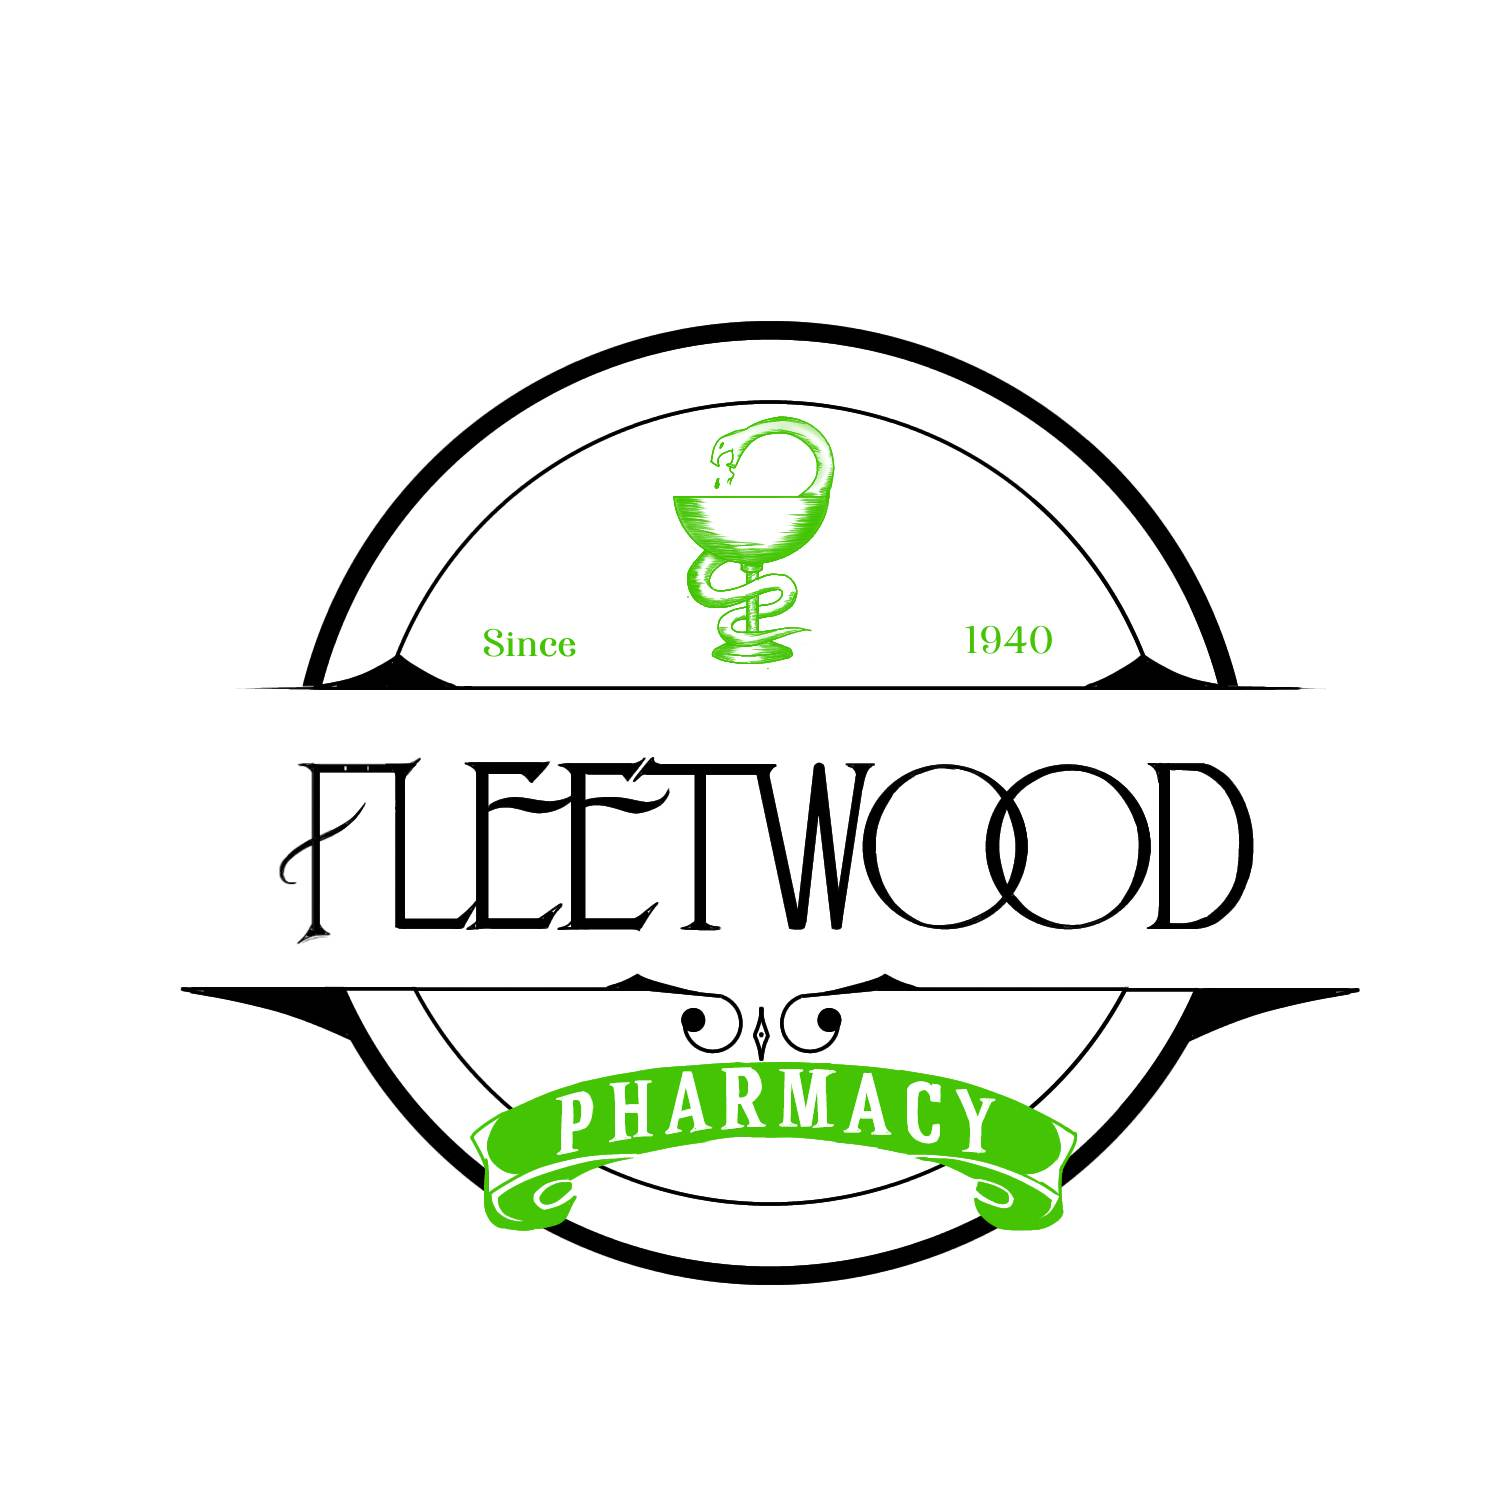
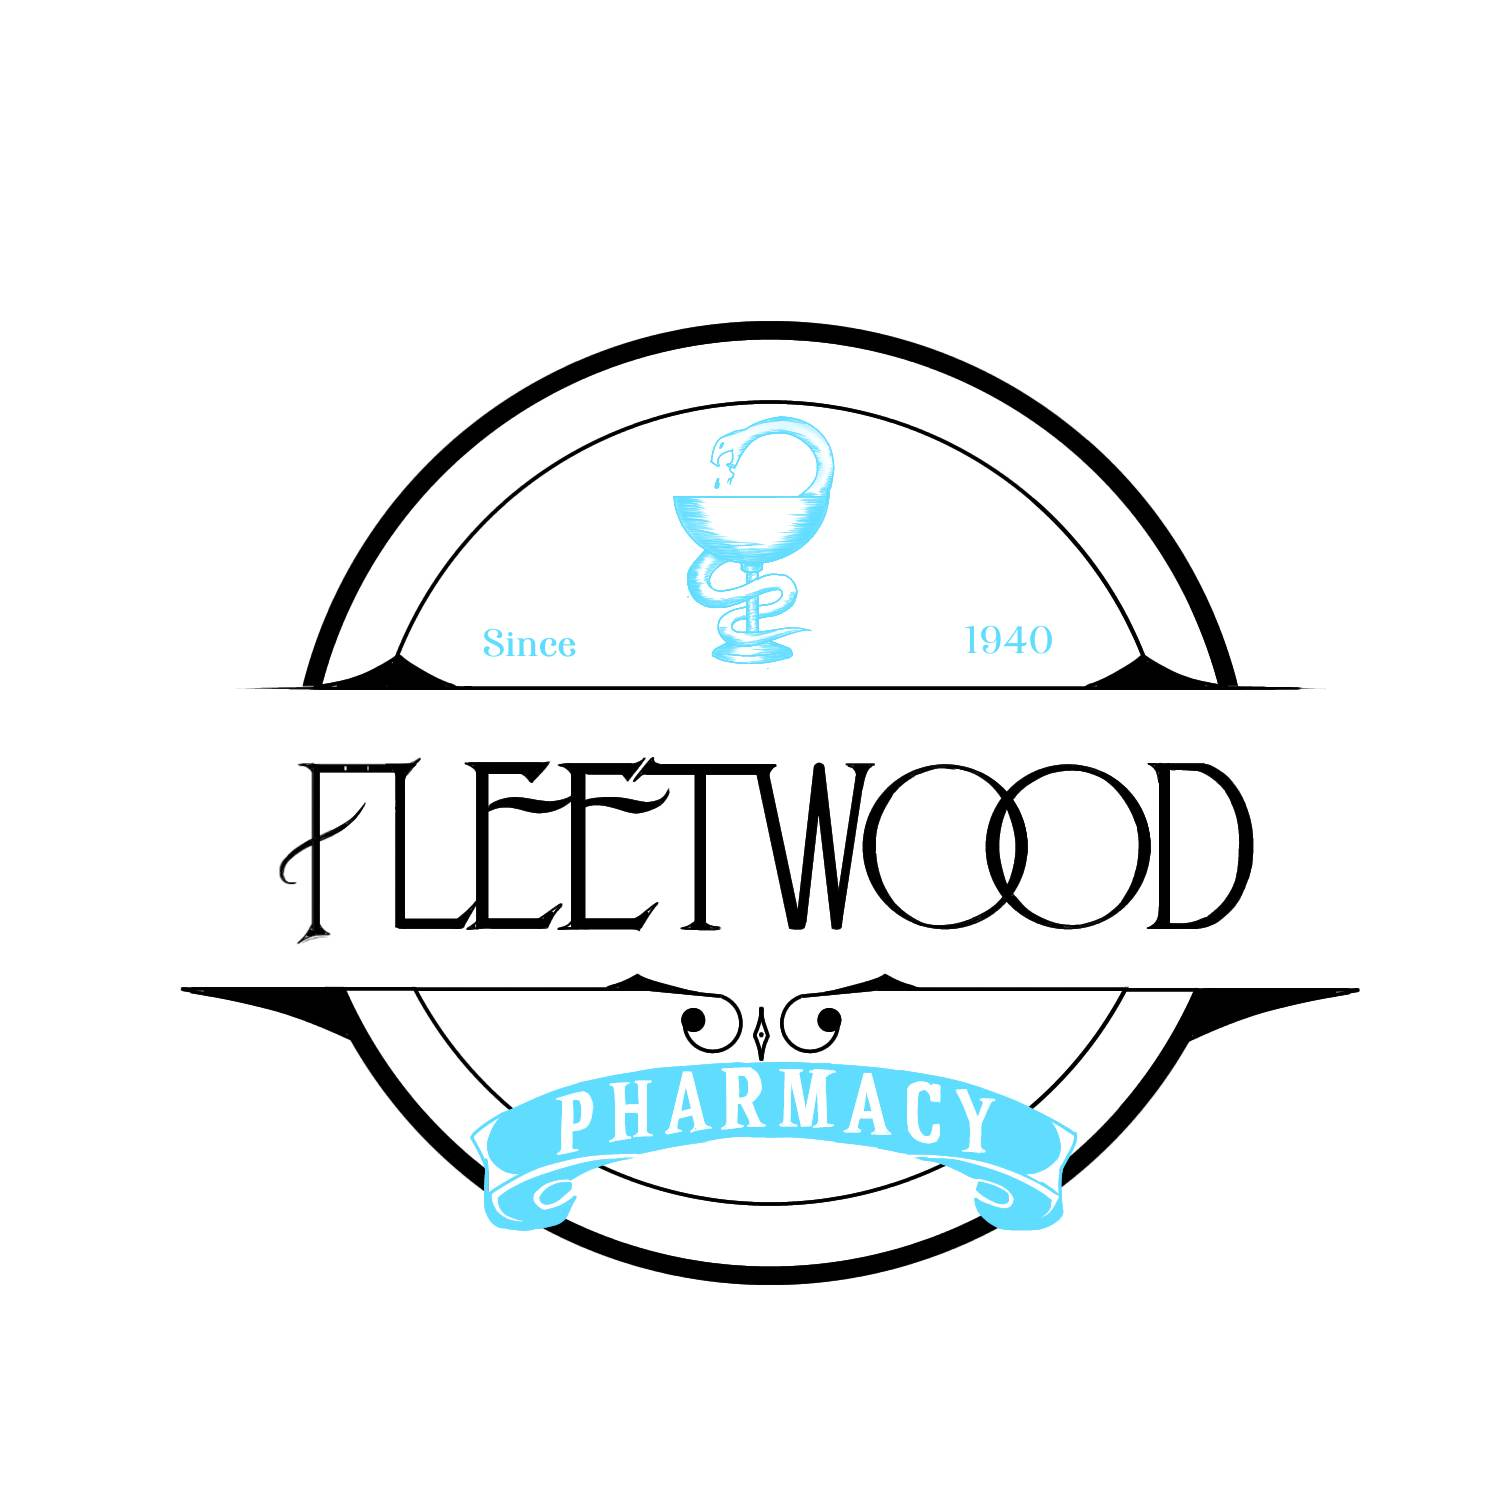
fleetwood.html

diff --git a/index.html b/index.html
@@ -1,7 +1,7 @@
 <!DOCTYPE html>
 <html lang="en">
   <head>
-    <title>Fleet Wood Pharmacy</title>
+    <title>Fleet Wood Pharmacy - Zamboanga City</title>
     
     <meta charset="UTF-8">
     <meta name="viewport" content="width=device-width, initial-scale=1.0">
@@ -12,7 +12,7 @@
     
   <style>
        body, html {
-        background-color: #F1E7ED;
+        background-color: #EDF8FC;
         height: 100%;
         width: 100%;
         font-size: 20px;
@@ -29,16 +29,11 @@
       a {
         font-size: 16px
       }
-    
-      em {
-        color: darkgreen;
-        font-style: normal;
-      }
       
       h4 {
         color: darkgray;
         font-weight: bold;
-        font-size: 15px
+        font-size: 15px;
       }
       
       p.add-p {
@@ -61,7 +56,7 @@
         font-weight: bold;
       }
       
-      h5 {
+      h6 {
         color: gray;
         font-size: 12px;
       }
@@ -72,6 +67,11 @@
         margin-right: auto;
         width:100%;
       }
+      
+      .hiring {
+        font-style: italic;
+        font-size: 19px;
+      }
     </style>
   </head>
   
@@ -79,19 +79,19 @@
     
   <!--Links (sit on top)-->
   <div class="w3-top">
-    <div class="w3-row w3-padding w3-black">
+    <div class="w3-row w3-padding w3-blue">
       <div class="w3-col s3">
-        <a href="#" class="w3-button w3-block w3-black">Home</a>
+        <a href="#" class="w3-button w3-block w3-blue">Home</a>
       </div>
 
       <div class="w3-col s3">
-        <a href="#about" class="w3-button w3-block w3-black">ABOUT</a>
+        <a href="#about" class="w3-button w3-block w3-blue">ABOUT</a>
       </div>
       <div class="w3-col s3">
-        <a href="#products" class="w3-button w3-block w3-black">PRODUCTS</a>
+        <a href="#products" class="w3-button w3-block w3-blue">PRODUCTS</a>
       </div>
       <div class="w3-col s3">
-        <a href="#where" class="w3-button w3-block w3-black">WHERE</a>
+        <a href="#where" class="w3-button w3-block w3-blue">WHERE</a>
       </div>
     </div>
   </div>
@@ -104,63 +104,55 @@
   <!--About Container-->
   <div class="w3-container" id="about">
   <div class="w3-content" style="max-width:900px">
-    <h1 class="w3-center w3-padding-10"><span class="w3-tag w3-wide">Fleet Wood Pharmacy</span></h1><br>
+    <h1 class="w3-center w3-padding-10"><span class="w3-tag w3-wide w3-blue">Fleet Wood Pharmacy</span></h1><br>
     <h2>"Welcome To Fleet Wood Pharmacy - A New Experience In Health, Beauty And Well-Being."</h2>
-    <p>With over 350 branches in strategic locations all over the country, Fleet Wood Pharmacy is recognized as one of the Philippines’ top pharmaceutical retailers, providing customers with easy access to quality health and beauty products.</p>
-    <p>Fleet Wood Pharmacy continues to expand its services beyond conventional limits – serving customers at the comfort of their own homes with <em>FleetingExpress Delivery</em>, fulfilling health and beauty needs across the country with the <em>Fleet Wood Pharmacy Online Store</em>’s nationwide delivery, and providing round-the-clock service with 24-Hour stores.</p>
-    <p>With a strong focus on bringing value to customers, Fleet Wood Pharmacy has launched <em>Fleet Wood Pharmacy Generics</em>, ensuring high-quality prescription and over-the-counter medicines are made widely available for everyday affordable prices. The Guardian line of personal care products bring gentle, quality care for every member of the family at consistently low prices as well.</p>
+    <p>Established in 1940 in Zamboanga City, Fleet Wood Pharmacy is one of the Philippines’ top pharmaceutical retailers with over 257 branches in strategic locations all over the country, providing easy access to quality and affordable medicines for its numerous customers.</p>
+    <p>At the core of its corporate philosophy is KSM or Kay Sarap Magmahal, the customer-centered culture that is uniquely Fleet Wood Pharmacy’s.</p>
+    <p>With the customer being the centerpiece of its corporate plans, Fleet Wood Pharmacy has streamlined its branch operation by installing advanced POS system in all branches thereby providing not only fast and efficient computerized service but also accurate accounting and inventory monitoring. With its home delivery facility – FleetExpress Delivery, buying medicines and grocery items is just a phone call away and delivered right to customers’ doorsteps.</p>
+    <p>Mindful of its corporate responsibility to the community, Fleet Wood Pharmacy has established the Fleet Wood Pharmacy Foundation, which undertakes yearly various medical missions/free clinics to different barangays in the Philippine Islands, in cooperation with local medical practitioners and its partners in the pharmaceutical industry. The foundation has also provided scholarship grants to qualified children of its regular employees who wish to study B.S in Pharmacy in any college or university of their choice.</p>
+    <p>The establishment of this website further enhances Rose Pharmacy’s customer service thru on-line product inquiry and ordering and other on-line services.</p>
     <p><strong>Main Branch Address:</strong> Don Alfaro St., Tetuan, Z.C</p><br>
     
   <!--Products Container-->
   <div class="w3-container" id="products">
-    <div class="w3-content" style="max-width:900px">
 
- 
-      <h2 class="w3-center w3-padding-48"><span class="w3-tag w3-wide">Main Products</span></h2>
-      <div class="w3-container  w3-padding-48 w3-card">
+  <div class="w3-content" style="max-width:700px">
+    <h2 class="w3-center w3-padding-48"><span class="w3-tag w3-wide w3-blue">Main Products</span></h2>
 
-      <p class="w3-text-grey">Amoxicillin — Php 7.50 (500mg)</p>
-    
-      <p class="w3-text-grey">Ascorbic Acid — Php 2.75 (500mg)</p>
-      
-      <p class="w3-text-grey">Glimepiride — Php 11.75 (2mg)</p>
-      
-      <p class="w3-text-grey">Paracetamol — Php 4.25 (500mg)</p>
-      
-      <p class="w3-text-grey">Supracid — Php 2.00 (650mg)</p>
-      
-      <p class="w3-text-grey">Clopidogrel — Php 14.75 (75mg)</p>
-      </div>
-    </div>
+    <div class="w3-row w3-card w3-padding">
+    <div class="w3-center w3-col s6 tablink w3-text-gray"><b>Per Capsules/Tablets</b></div>
   </div>
-  <br>  
-  <br>
-  <br> 
-  <br>
+    
+    <div id="Per Capsules/Tablets" class="w3-container products w3-padding-48 w3-card">
+      <p class="w3-text-grey">• Amoxicillin — Php 7.50 (500mg) [Prescription Required]</p>
+    
+      <p class="w3-text-grey">• Ascorbic Acid (Viatamin C) — Php 2.75 (500mg)</p>
+      
+      <p class="w3-text-grey">• Glimepiride — Php 11.75 (2mg) [Prescription Required]</p>
+      
+      <p class="w3-text-grey">• Paracetamol — Php 4.25 (500mg)</p>
+      
+      <p class="w3-text-grey">• Supracid — Php 2.00 (650mg)</p>
+      
+      <p class="w3-text-grey">• Clopidogrel — Php 14.75 (75mg) [Prescription Required]</p>
+      </div>
+  </div>
+  <hr>
   <!--Contact/ Area Container-->
   <div class="w3-container" id="where" style="padding-bottom:32px;">
     <div class="w3-content" style="max-width:900px">
-      <h4 class="w3-center w3-padding-60"><span class="w3-tag w3-wide">Contact Us</span></h4>
+      <h4 class="w3-center w3-padding-60"><span class="w3-tag w3-wide w3-blue">Contact Us</span></h4>
+      <p>Tel. No.: 8123-4567</p>
       <p>Facebook:<a href="https://www.facebook.com/gabriella.tschaunder">https://www.facebook.com/gabriella.tschaunder</a></p>
-      <p class="email">Email:<a href="mailto:lilpsychos177@gmail.com">lilpsychos177@gmail.com</a></p>
-        <br>
-        <br>
-      <p><strong>You can also send us a message using this form:</strong></p>
-      <form action="/action_page.php" target="_blank">
-        <p><input class="w3-input w3-padding-10 w3-border" type="text" placeholder="Name" required name="Name"></p>
-        <p><input class="w3-input w3-padding-10 w3-border"
-        type="text" placeholder="Date Of Birth" required name="Date"</p>
-        <p><input class="w3-input w3-padding-10 w3-border"
-        type="text" placeholder="Email" require name="email"</p>
-        <p><input class="w3-input w3-padding-16 w3-border"
-        type="text" placeholder="Message" requured name="message"</p>
-        <p><button class="w3-button w3-black" type="submit">SUBMIT</button></p>
-      </form>  
-      </div>  
-    </div>   
-  <!--End of Page Content-->
+      <p class="email">Email Address:<a href="mailto:lilpsychos177@gmail.com">lilpsychos177@gmail.com</a></p>
+    </div>
+  </div>  
   <hr>
-  <h5>Important Info:</h5>
+  <h5><span class="w3-tag w3-padding w3-blue">Fleet Wood Pharmacy is now hiring! Click <a class="hiring" href="aboutus.html">here</a> to find out more.</span></h5>
+  <!--End of Page Content-->
+  
+  <hr>
+  <h6>Important Info:</h6>
     <p class="add-p">Pharmacy is the science and practice of discovering, producing, preparing, dispensing, reviewing and monitoring medications, aiming to ensure the safe, effective, and affordable use of medicines. It is a miscellaneous science as it links health sciences with pharmaceutical sciences and natural sciences. The professional practice is becoming more clinically oriented as most of the drugs are now manufactured by pharmaceutical industries. Based on the setting, pharmacy practice is either classified as community or institutional pharmacy. Providing direct patient care in the community of institutional pharmacies is considered clinical pharmacy.</p>
     <p class="sec-p">Pharmacy coincides well with the history of medicine, but it's important that there is a distinction between the two topics. Pharmaceuticals is one of the most-researched fields in the academic industry, but the history surrounding that particular topic is sparse compared to the impact its made world-wide. Before the advent of pharmacists, there existed apothecaries that worked alongside priests and physicians in regard to patient care.</p>
   </body>

diff --git a/aboutus.html b/aboutus.html
@@ -2,20 +2,145 @@
 <html>
 
 <head>
+  <title>Fleet Wood Farmacy's Application Form</title>
+  
   <meta charset="UTF-8">
-  <meta name="viewport" content="width=device-width, initial-scale=1">
-  <title>More Information About Fleet Wood Pharmacy <img src="/images/Picsart_23-04-01_15-35-33-655.jpg" alt="Fleet Wood Pharmcy's Logo"></title>
+  <meta name="viewport" content="width=device-width, initial-scale=1.0">
+  
+  <link rel="stylesheet" href="https://www.w3schools.com/w3css/4/w3.css">
+  <link rel="stylesheet" href="https://fonts.googleapis.com/css?family=Inconsolata">
+  <link rel="stylesheet" href="https://fonts.googleapis.com/css?family=Sofia">
   
   <style>
-    img {
-      width: 50px;
-      border-radius: 25px;
+    body, html {
+      background-color: #EDF8FC;
+        height: 100%;
+        width: 100%;
+        font-size: 20px;
+        font-family: "Inconsolata", sans-serif;
+    }
+    
+    h1 {
+      font-weight: bold;
+      font-family: "Inconsolata", sans-serif;
+      font-size: 50px;
+    }
+    
+    h2 {
+      font-weight: bolder;
+      font-size: 45px;
+    }
+    
+    h3 {
+      font-weight: bold;
+      font-size: 35px;
+    }
+    
+    h4 {
+      font-weight: bold;
+    }
+    
+    .address {
+      color: grey;
+    }
+    
+    .ov {
+      color: darkblue;
+      font-size: 25px;
     }
   </style>
 </head>
 
 <body>
+    <!--Links (sit on top)-->
+  <div class="w3-top">
+    <div class="w3-row w3-padding w3-blue">
+      <div class="w3-col s3">
+        <a href="#" class="w3-button w3-block w3-blue">Home</a>
+      </div>
+
+      <div class="w3-col s3">
+        <a href="#about" class="w3-button w3-block w3-blue">ABOUT</a>
+      </div>
+      <div class="w3-col s3">
+        <a href="#overview" class="w3-button w3-block w3-blue">OVERVIEW</a>
+      </div>
+      <div class="w3-col s3">
+        <a href="#form" class="w3-button w3-block w3-blue">FORM</a>
+      </div>
+    </div>
+  </div>
+<!--Home Area-->
+  <div class="w3-container"
+    <h2 class="w3-center w3-padding-64"><span class="w3-tag w3-wide w3-blue">Now Hiring!</span></h2>
+    <hr>
+    <h3><u>Job Description</u></h3><br>
+    <h4>Regulatory Pharmacist</h4>
+      <p class="address">Fleet Wood Pharmacy, located at Don Alfaro St., Tetuan, Z.C</p>
+    <hr>
+    
+  <!--About Container-->
+  <div class="w3-container" id="about">
+    <div class="w3-content" style="max-width:700px">  
+    <h5><b>Duties and Responsibilities:</b></h5>
+      <p>• Able to secure quality documents/samples for Initial Registration, Amendments, Variations, Inclusions, Exhaustion, Shelf life Extension, PCPR, CLIDP's and the like.</p>
+      <p>• Able to submit compliance on or before the deadline prescribed by the FDA correctly and in a time efficient manner.</p>
+      <P>• Responsible to liaise necessary applications and to follow up all applications to FDA.</p>
+      <p>• Responsible for securing Licenses and or Renewals of the same (ie FDA Drugs, Cosmetics, Foods, DOH Accreditation's, DOH-Medical Devices, PDEA)</p>
+      <p>• Ensures that products being placed by the Import Department has the CPR prior to the arrival.</p>
+      <p>• Able to communicate with the suppliers and guide them accordingly on the Regulatory Requirements on the Registration of PDEA, BAI, and DOH Products.</p>
+      <p>• Secure quality documentation prior to application of Initial registration (FDA and DOH)</P>
+    <h5><b>Qualifications and Skills:</b></h5>
+      <p>• Candidate must possess at least a Bachelor's/College Degree, Professional License (Passed Board/Bar/Professional License Exam), Pharmacy/Pharmacology or equivalent.</p>
+      <p>• At least 1 year (s) of working experience in the related field is required in this position.</p>
+      <p>• Applicant must be willing to work in Makati City.</p>
+      <p>• Preferably 1-4 years Experienced Employees specializing in Healthcare- Pharmacy or equivalent.</p>
+      <p>• Full- time position (s) available.</p>
+      <p>• REGULATORY EXPERIENCE IS A MUST.</p>
+      <p>• Licensed Pharmacist.</p>
+      <p>• Can work under Minimum supervision.</p>
+    <h5> Please submit your resume with picture.</h5>
+    <hr>
+    <h4>Job Type: Full-time</h4>
+    <hr>
+      <p><b>Required Experience:</b> Regulatory Pharmacist: 1 year</p>
+      <p><b>Required education:</b> Bachelor's</p>
+      <p><b>Required license or certification:</b> Licensed Pharmacist</p>
+      <p><b>Salary:</b> Php20,000.00 - Php23,000.00 per month</p>
+      <p><b>Schedule:</b> 8 hour shift</p>
+      <p><b>Ability to commute/relocate:</b> Zamboanga City: Reliably commute or planning to relocate before starting work (Preferred)</p>
+      <p><b>Education:</b> Bachelor's (Preferred)</p>
+      <p><b>Experience:</b> Regulatory Pharmacist: 1 year (Preferred)
+      <p><b>Language:</b> English (Preferred)
+      <p><b>Summary of role requirements:</b> Looking for candidates available to work on weekdays and Saturdays1 year of relevant work experience required for this roleWorking rights required for this role</p>
+  </div> 
+  <hr>
   
+  <!--Overview Area/Container-->
+  <div class="w3-container" id="overview">
+    <div class="w3-content" style="max-width:700px">
+    <h4 class="w3-padding-60"><span class="w3-tag w3-wide w3-blue">Pharmacy Overview</span></h4>
+    <p>With over 350 branches in strategic locations all over the country, Fleet Wood Pharmacy is recognized as one of the Philippines’ top pharmaceutical retailers, providing customers with easy access to quality health and beauty products.</p>
+    <p>Fleet Wood Pharmacy continues to expand its services beyond conventional limits – serving customers at the comfort of their own homes with FleetingExpress Delivery, fulfilling health and beauty needs across the country with the Fleet Wood Pharmacy Online Store’s nationwide delivery, and providing round-the-clock service with 24-Hour stores.</p>
+    <p>With a strong focus on bringing value to customers, Fleet Wood Pharmacy has launched Fleet Wood Pharmacy Generics, ensuring high-quality prescription and over-the-counter medicines are made widely available for everyday affordable prices. The Guardian line of personal care products bring gentle, quality care for every member of the family at consistently low prices as well.</p>
+  </div>
+    <hr>
+  
+  <!--Form Container-->
+  <div class="w3-container" id="form" style="padding-bottom:43px;">
+    <div class="w3-content" style="max-width:900px">
+      <h4 class="w3-padding-60">Please fill out this form:</span></h4>
+    <form action="/action_page.php" target="_blank">
+        <p><input class="w3-input w3-padding-10 w3-border" type="text" placeholder="Name" required name="Name"></p>
+        <p><input class="w3-input w3-padding-10 w3-border" type="text" placeholder="Age" required name="Age"</p>
+        <p><input class="w3-input w3-padding-10 w3-border"
+        type="text" placeholder="Phone Number" required name="Number"</p>
+        <p><input class="w3-input w3-padding-10 w3-border" type="text" placeholder="Address" required name="Address"</p>
+        <p><button class="w3-button w3-blue" type="submit">SUBMIT</button></p>
+        <p> Wait for further announcement after the submission of form. Thank you.</p>
+    </form>
+  </div>
+  <!--End of Page Content-->
 </body>
 
 </html>
